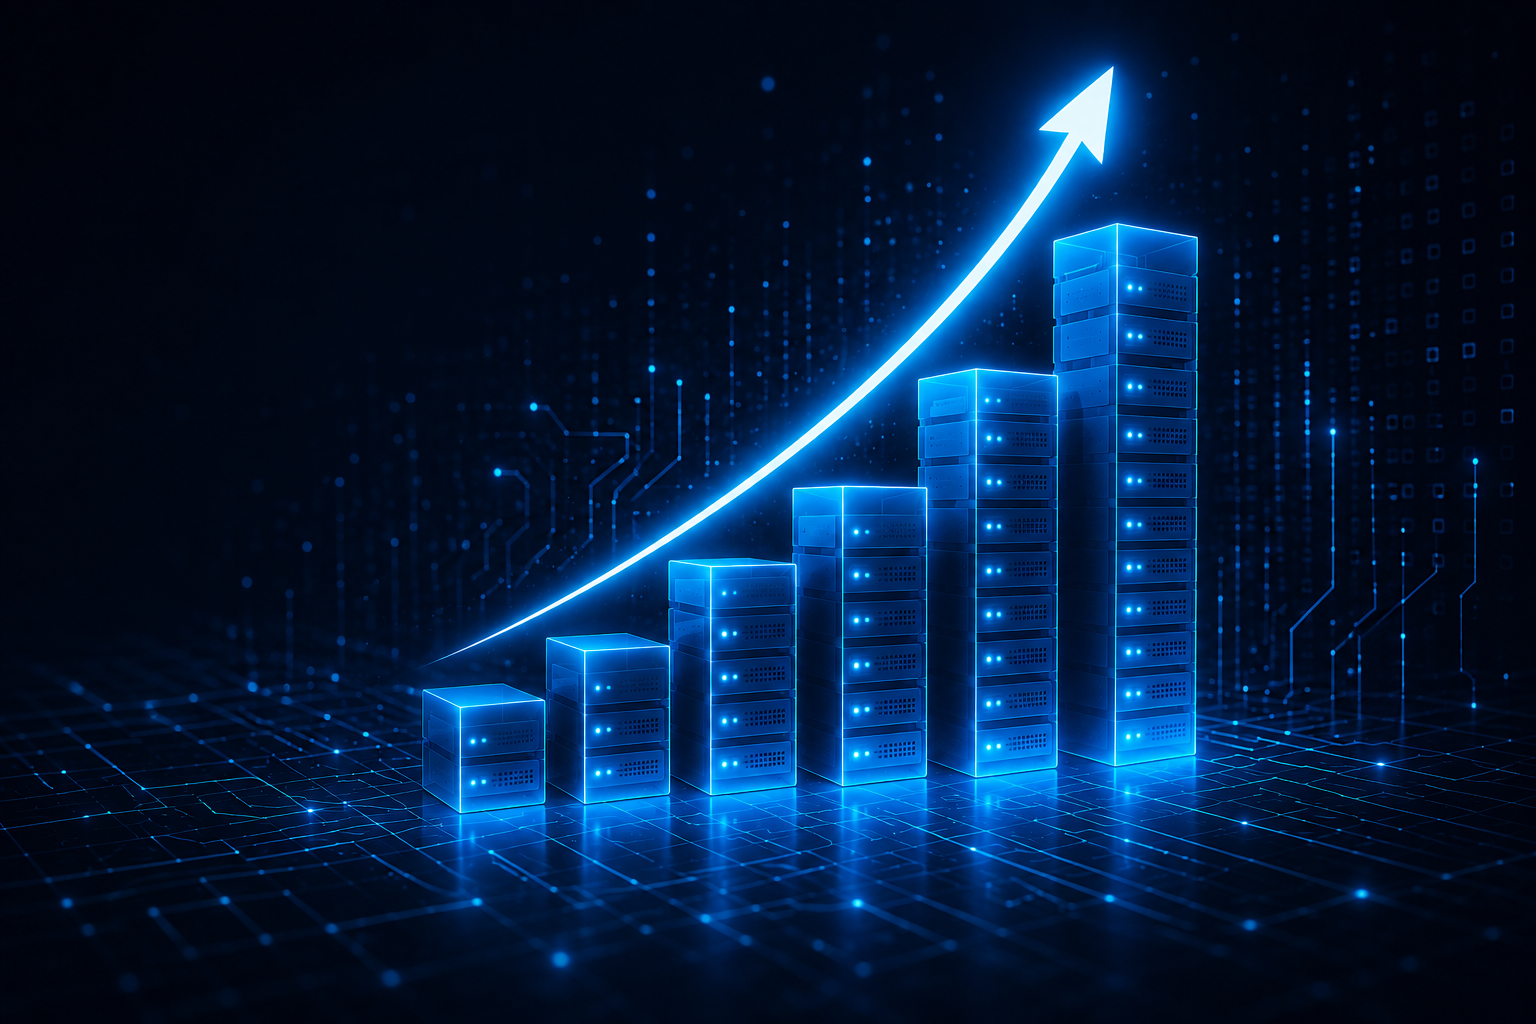
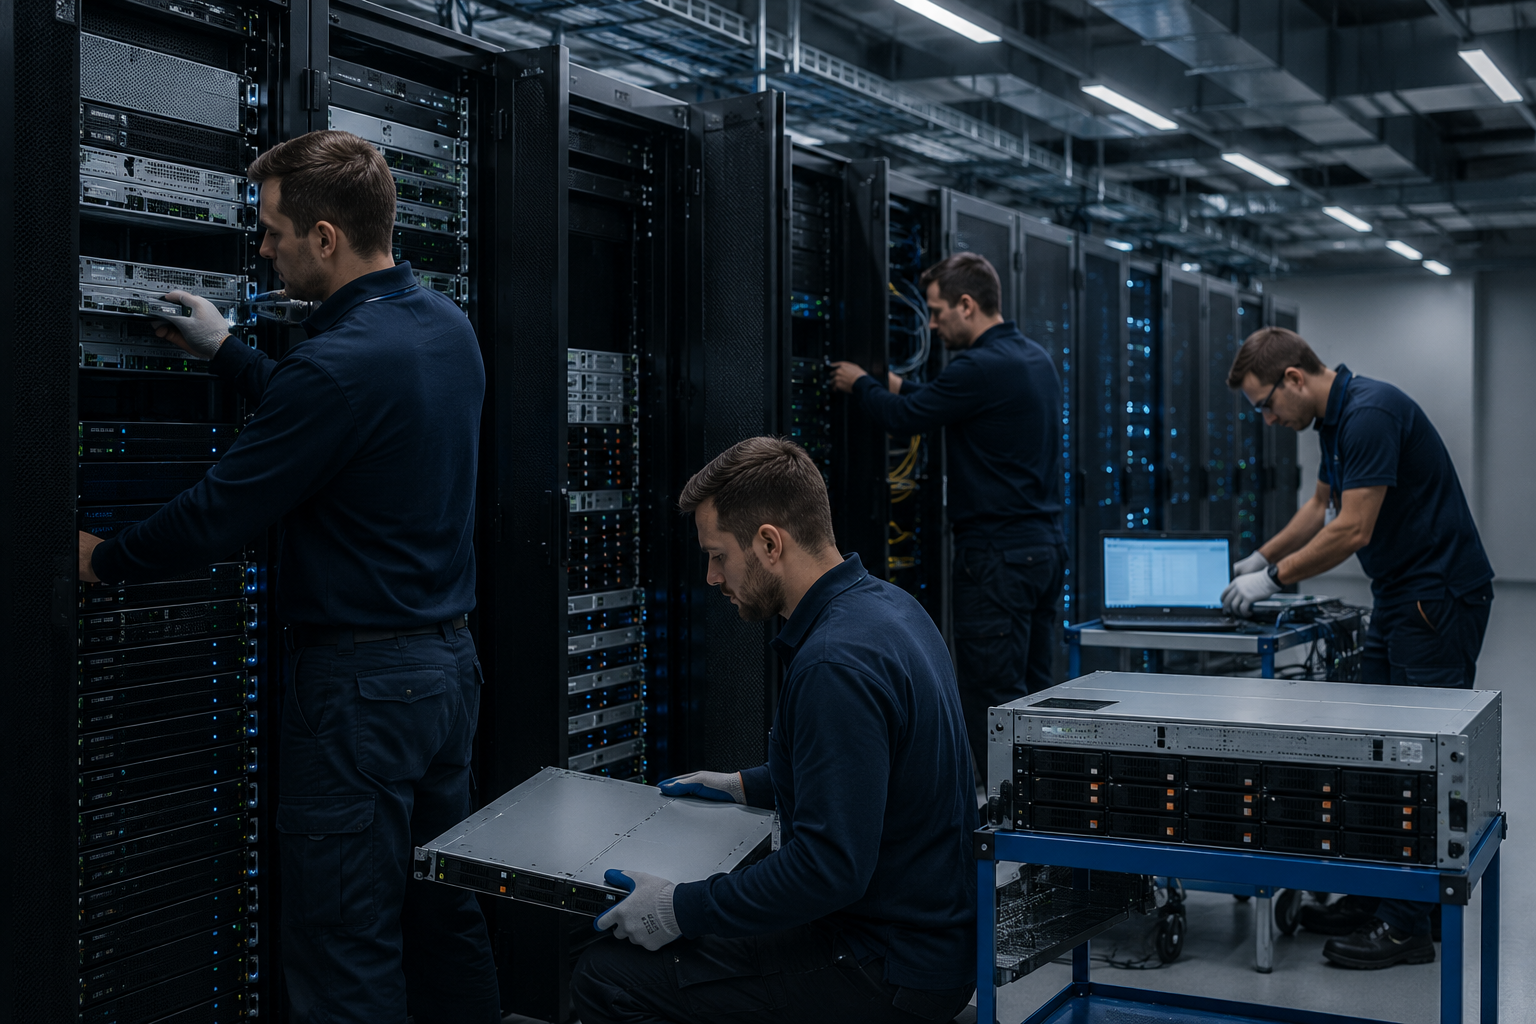
343434

diff --git a/styles.css b/styles.css
@@ -2926,11 +2926,11 @@ body.nav-mega-open .nav-mega-backdrop {
 .services-slide:hover {
   background: color-mix(in srgb, var(--services-slide-surface) 90%, var(--text) 10%);
   border-color: color-mix(in srgb, var(--accent) 32%, var(--border));
-  box-shadow: 0 18px 40px color-mix(in srgb, var(--text) 8%, transparent);
+  box-shadow: none;
 }
 
 [data-theme="dark"] .services-slide:hover {
-  box-shadow: 0 18px 40px rgba(0, 0, 0, 0.42);
+  box-shadow: none;
 }
 
 @media (max-width: 720px) {
@@ -3127,24 +3127,67 @@ body.nav-mega-open .nav-mega-backdrop {
   border-color: rgba(255, 255, 255, 0.08);
 }
 
+html:not([data-theme="dark"]) .services-slide--huawei {
+  background:
+    radial-gradient(
+      ellipse 90% 76% at 100% 100%,
+      rgba(228, 30, 38, 0.12),
+      color-mix(in srgb, var(--bg-elevated) 92%, #0d1117 8%) 62%
+    ),
+    linear-gradient(
+      158deg,
+      color-mix(in srgb, var(--bg-elevated) 94%, #ffffff 6%) 0%,
+      color-mix(in srgb, var(--bg-elevated) 88%, var(--accent) 12%) 100%
+    );
+  border-color: color-mix(in srgb, var(--border) 90%, rgba(228, 30, 38, 0.22));
+}
+
 .services-slide--huawei:hover {
   background:
     radial-gradient(ellipse 90% 70% at 100% 100%, rgba(228, 30, 38, 0.28), #0c1018 58%),
     linear-gradient(158deg, #151c28 0%, #0a1018 48%, #111822 100%);
   border-color: rgba(228, 30, 38, 0.35);
-  box-shadow: 0 18px 40px rgba(0, 0, 0, 0.38);
+  box-shadow: none;
+}
+
+html:not([data-theme="dark"]) .services-slide--huawei:hover {
+  background:
+    radial-gradient(
+      ellipse 92% 78% at 100% 100%,
+      rgba(228, 30, 38, 0.16),
+      color-mix(in srgb, var(--bg-elevated) 90%, #0d1117 10%) 66%
+    ),
+    linear-gradient(
+      158deg,
+      color-mix(in srgb, var(--bg-elevated) 92%, #ffffff 8%) 0%,
+      color-mix(in srgb, var(--bg-elevated) 86%, var(--accent) 14%) 100%
+    );
+  border-color: color-mix(in srgb, var(--border) 84%, rgba(228, 30, 38, 0.28));
 }
 
 .services-slide--huawei .services-slide__media-wrap {
   background: #070b12;
 }
 
+html:not([data-theme="dark"]) .services-slide--huawei .services-slide__media-wrap {
+  background: color-mix(in srgb, var(--bg-elevated) 86%, #0d1117 14%);
+}
+
 .services-slide--huawei .services-slide__glow::before {
   background: radial-gradient(circle, rgba(228, 30, 38, 0.28) 0%, transparent 72%);
 }
 
+html:not([data-theme="dark"]) .services-slide--huawei .services-slide__glow::before {
+  background: radial-gradient(circle, rgba(228, 30, 38, 0.18) 0%, transparent 72%);
+}
+
 .services-slide--huawei .services-slide__visual::after {
   background: linear-gradient(to bottom, transparent 50%, rgba(10, 14, 20, 0.88) 100%);
+}
+
+html:not([data-theme="dark"]) .services-slide--huawei .services-slide__visual::after {
+  /* В светлой теме не даём «белую дымку» на фото — только лёгкий тёмный фейд для читаемости */
+  background: linear-gradient(to bottom, transparent 62%, rgba(13, 17, 23, 0.18) 100%);
 }
 
 .services-slide--huawei .services-slide__decor {
@@ -3194,6 +3237,10 @@ body.nav-mega-open .nav-mega-backdrop {
   line-height: 1.22;
 }
 
+html:not([data-theme="dark"]) .services-slide--huawei .services-slide__title {
+  color: var(--text);
+}
+
 .services-slide--huawei .services-slide__title-accent {
   display: inline;
   margin-top: 0;
@@ -3210,8 +3257,16 @@ body.nav-mega-open .nav-mega-backdrop {
   color: rgba(255, 255, 255, 0.72);
 }
 
+html:not([data-theme="dark"]) .services-slide--huawei .services-slide__desc {
+  color: color-mix(in srgb, var(--text) 72%, transparent);
+}
+
 .services-slide--huawei .services-slide__link {
   color: #ffffff;
+}
+
+html:not([data-theme="dark"]) .services-slide--huawei .services-slide__link {
+  color: color-mix(in srgb, var(--text) 88%, transparent);
 }
 
 .services-slide--huawei:hover .services-slide__link {
@@ -3231,24 +3286,67 @@ body.nav-mega-open .nav-mega-backdrop {
   border-color: rgba(255, 255, 255, 0.08);
 }
 
+html:not([data-theme="dark"]) .services-slide--asdu {
+  background:
+    radial-gradient(
+      ellipse 90% 76% at 100% 100%,
+      rgba(79, 159, 232, 0.14),
+      color-mix(in srgb, var(--bg-elevated) 92%, #0d1117 8%) 62%
+    ),
+    linear-gradient(
+      158deg,
+      color-mix(in srgb, var(--bg-elevated) 94%, #ffffff 6%) 0%,
+      color-mix(in srgb, var(--bg-elevated) 86%, rgba(79, 159, 232, 0.2) 14%) 100%
+    );
+  border-color: color-mix(in srgb, var(--border) 90%, rgba(79, 159, 232, 0.24));
+}
+
 .services-slide--asdu:hover {
   background:
     radial-gradient(ellipse 90% 70% at 100% 100%, rgba(79, 159, 232, 0.28), #0c1018 58%),
     linear-gradient(158deg, #151c28 0%, #0a1018 48%, #111822 100%);
   border-color: rgba(79, 159, 232, 0.35);
-  box-shadow: 0 18px 40px rgba(0, 0, 0, 0.38);
+  box-shadow: none;
+}
+
+html:not([data-theme="dark"]) .services-slide--asdu:hover {
+  background:
+    radial-gradient(
+      ellipse 92% 78% at 100% 100%,
+      rgba(79, 159, 232, 0.2),
+      color-mix(in srgb, var(--bg-elevated) 90%, #0d1117 10%) 66%
+    ),
+    linear-gradient(
+      158deg,
+      color-mix(in srgb, var(--bg-elevated) 92%, #ffffff 8%) 0%,
+      color-mix(in srgb, var(--bg-elevated) 84%, rgba(79, 159, 232, 0.22) 16%) 100%
+    );
+  border-color: color-mix(in srgb, var(--border) 84%, rgba(79, 159, 232, 0.3));
 }
 
 .services-slide--asdu .services-slide__media-wrap {
   background: #070b12;
 }
 
+html:not([data-theme="dark"]) .services-slide--asdu .services-slide__media-wrap {
+  background: color-mix(in srgb, var(--bg-elevated) 86%, #0d1117 14%);
+}
+
 .services-slide--asdu .services-slide__glow::before {
   background: radial-gradient(circle, rgba(79, 159, 232, 0.28) 0%, transparent 72%);
 }
 
+html:not([data-theme="dark"]) .services-slide--asdu .services-slide__glow::before {
+  background: radial-gradient(circle, rgba(79, 159, 232, 0.2) 0%, transparent 72%);
+}
+
 .services-slide--asdu .services-slide__visual::after {
   background: linear-gradient(to bottom, transparent 50%, rgba(10, 14, 20, 0.88) 100%);
+}
+
+html:not([data-theme="dark"]) .services-slide--asdu .services-slide__visual::after {
+  /* В светлой теме не даём «белую дымку» на фото — только лёгкий тёмный фейд для читаемости */
+  background: linear-gradient(to bottom, transparent 62%, rgba(13, 17, 23, 0.18) 100%);
 }
 
 .services-slide--asdu .services-slide__decor {
@@ -3301,6 +3399,10 @@ body.nav-mega-open .nav-mega-backdrop {
   letter-spacing: -0.015em;
 }
 
+html:not([data-theme="dark"]) .services-slide--asdu .services-slide__title {
+  color: var(--text);
+}
+
 .services-slide--asdu .services-slide__title-line,
 .services-slide--asdu .services-slide__title-accent {
   display: inline;
@@ -3320,8 +3422,16 @@ body.nav-mega-open .nav-mega-backdrop {
   color: rgba(255, 255, 255, 0.72);
 }
 
+html:not([data-theme="dark"]) .services-slide--asdu .services-slide__desc {
+  color: color-mix(in srgb, var(--text) 72%, transparent);
+}
+
 .services-slide--asdu .services-slide__link {
   color: #ffffff;
+}
+
+html:not([data-theme="dark"]) .services-slide--asdu .services-slide__link {
+  color: color-mix(in srgb, var(--text) 88%, transparent);
 }
 
 .services-slide--asdu:hover .services-slide__link {

diff --git a/index.html b/index.html
@@ -10,7 +10,7 @@
       href="https://fonts.googleapis.com/css2?family=Bebas+Neue&family=Manrope:wght@400;500;600;700;800&family=Onest:wght@300;400;500;600&family=Oswald:wght@600;700&display=swap"
       rel="stylesheet"
     />
-    <link rel="stylesheet" href="styles.css?v=20260713-huawei-inline" />
+    <link rel="stylesheet" href="styles.css?v=20260713-services-unified" />
     <link rel="preload" href="images/hero_section/01_hero_section.png" as="image" />
     <link rel="preload" href="images/service_huawei.png" as="image" />
     <script defer src="theme.js"></script>
@@ -381,7 +381,7 @@
                     <div class="services-slide__visual">
                       <img
                         class="services-slide__logo"
-                        src="images/SERVICE_01.png"
+                        src="images/SERVICE_01.jpg"
                         alt=""
                         width="200"
                         height="140"
@@ -416,7 +416,7 @@
                     <div class="services-slide__visual">
                       <img
                         class="services-slide__logo"
-                        src="images/SERVICE_02.png"
+                        src="images/SERVICE_02.jpg"
                         alt=""
                         width="200"
                         height="140"
@@ -550,7 +550,7 @@
                     </a>
                   </div>
                 </article>
-                <article class="services-slide services-slide--huawei" role="listitem">
+                <article class="services-slide" role="listitem">
                   <div class="services-slide__media-wrap">
                     <span class="services-slide__num" aria-hidden="true">06</span>
                     <div class="services-slide__glow" aria-hidden="true"></div>
@@ -565,16 +565,9 @@
                         loading="lazy"
                       />
                     </div>
-                    <span class="services-slide__decor" aria-hidden="true">
-                      <span class="services-slide__tile"></span>
-                      <span class="services-slide__tile"></span>
-                      <span class="services-slide__tile"></span>
-                    </span>
                   </div>
                   <div class="services-slide__content">
-                    <h3 class="services-slide__title">
-                      Сервисный центр <span class="services-slide__title-accent">HUAWEI</span>
-                    </h3>
+                    <h3 class="services-slide__title">Сервисный центр HUAWEI</h3>
                     <p class="services-slide__desc">
                       Официальный сервис и поддержка оборудования Huawei: диагностика, ремонт и сопровождение.
                     </p>
@@ -592,7 +585,7 @@
                     </a>
                   </div>
                 </article>
-                <article class="services-slide services-slide--asdu" role="listitem">
+                <article class="services-slide" role="listitem">
                   <div class="services-slide__media-wrap">
                     <span class="services-slide__num" aria-hidden="true">07</span>
                     <div class="services-slide__glow" aria-hidden="true"></div>
@@ -607,17 +600,9 @@
                         loading="lazy"
                       />
                     </div>
-                    <span class="services-slide__decor" aria-hidden="true">
-                      <span class="services-slide__tile"></span>
-                      <span class="services-slide__tile"></span>
-                      <span class="services-slide__tile"></span>
-                    </span>
                   </div>
                   <div class="services-slide__content">
-                    <h3 class="services-slide__title">
-                      <span class="services-slide__title-line">АСДУ</span>
-                      <span class="services-slide__title-accent"> ЦОД</span>
-                    </h3>
+                    <h3 class="services-slide__title">АСДУ ЦОД</h3>
                     <p class="services-slide__desc">
                       Автоматизированные системы диспетчерского управления центра обработки данных на базе SCADA+
                     </p>